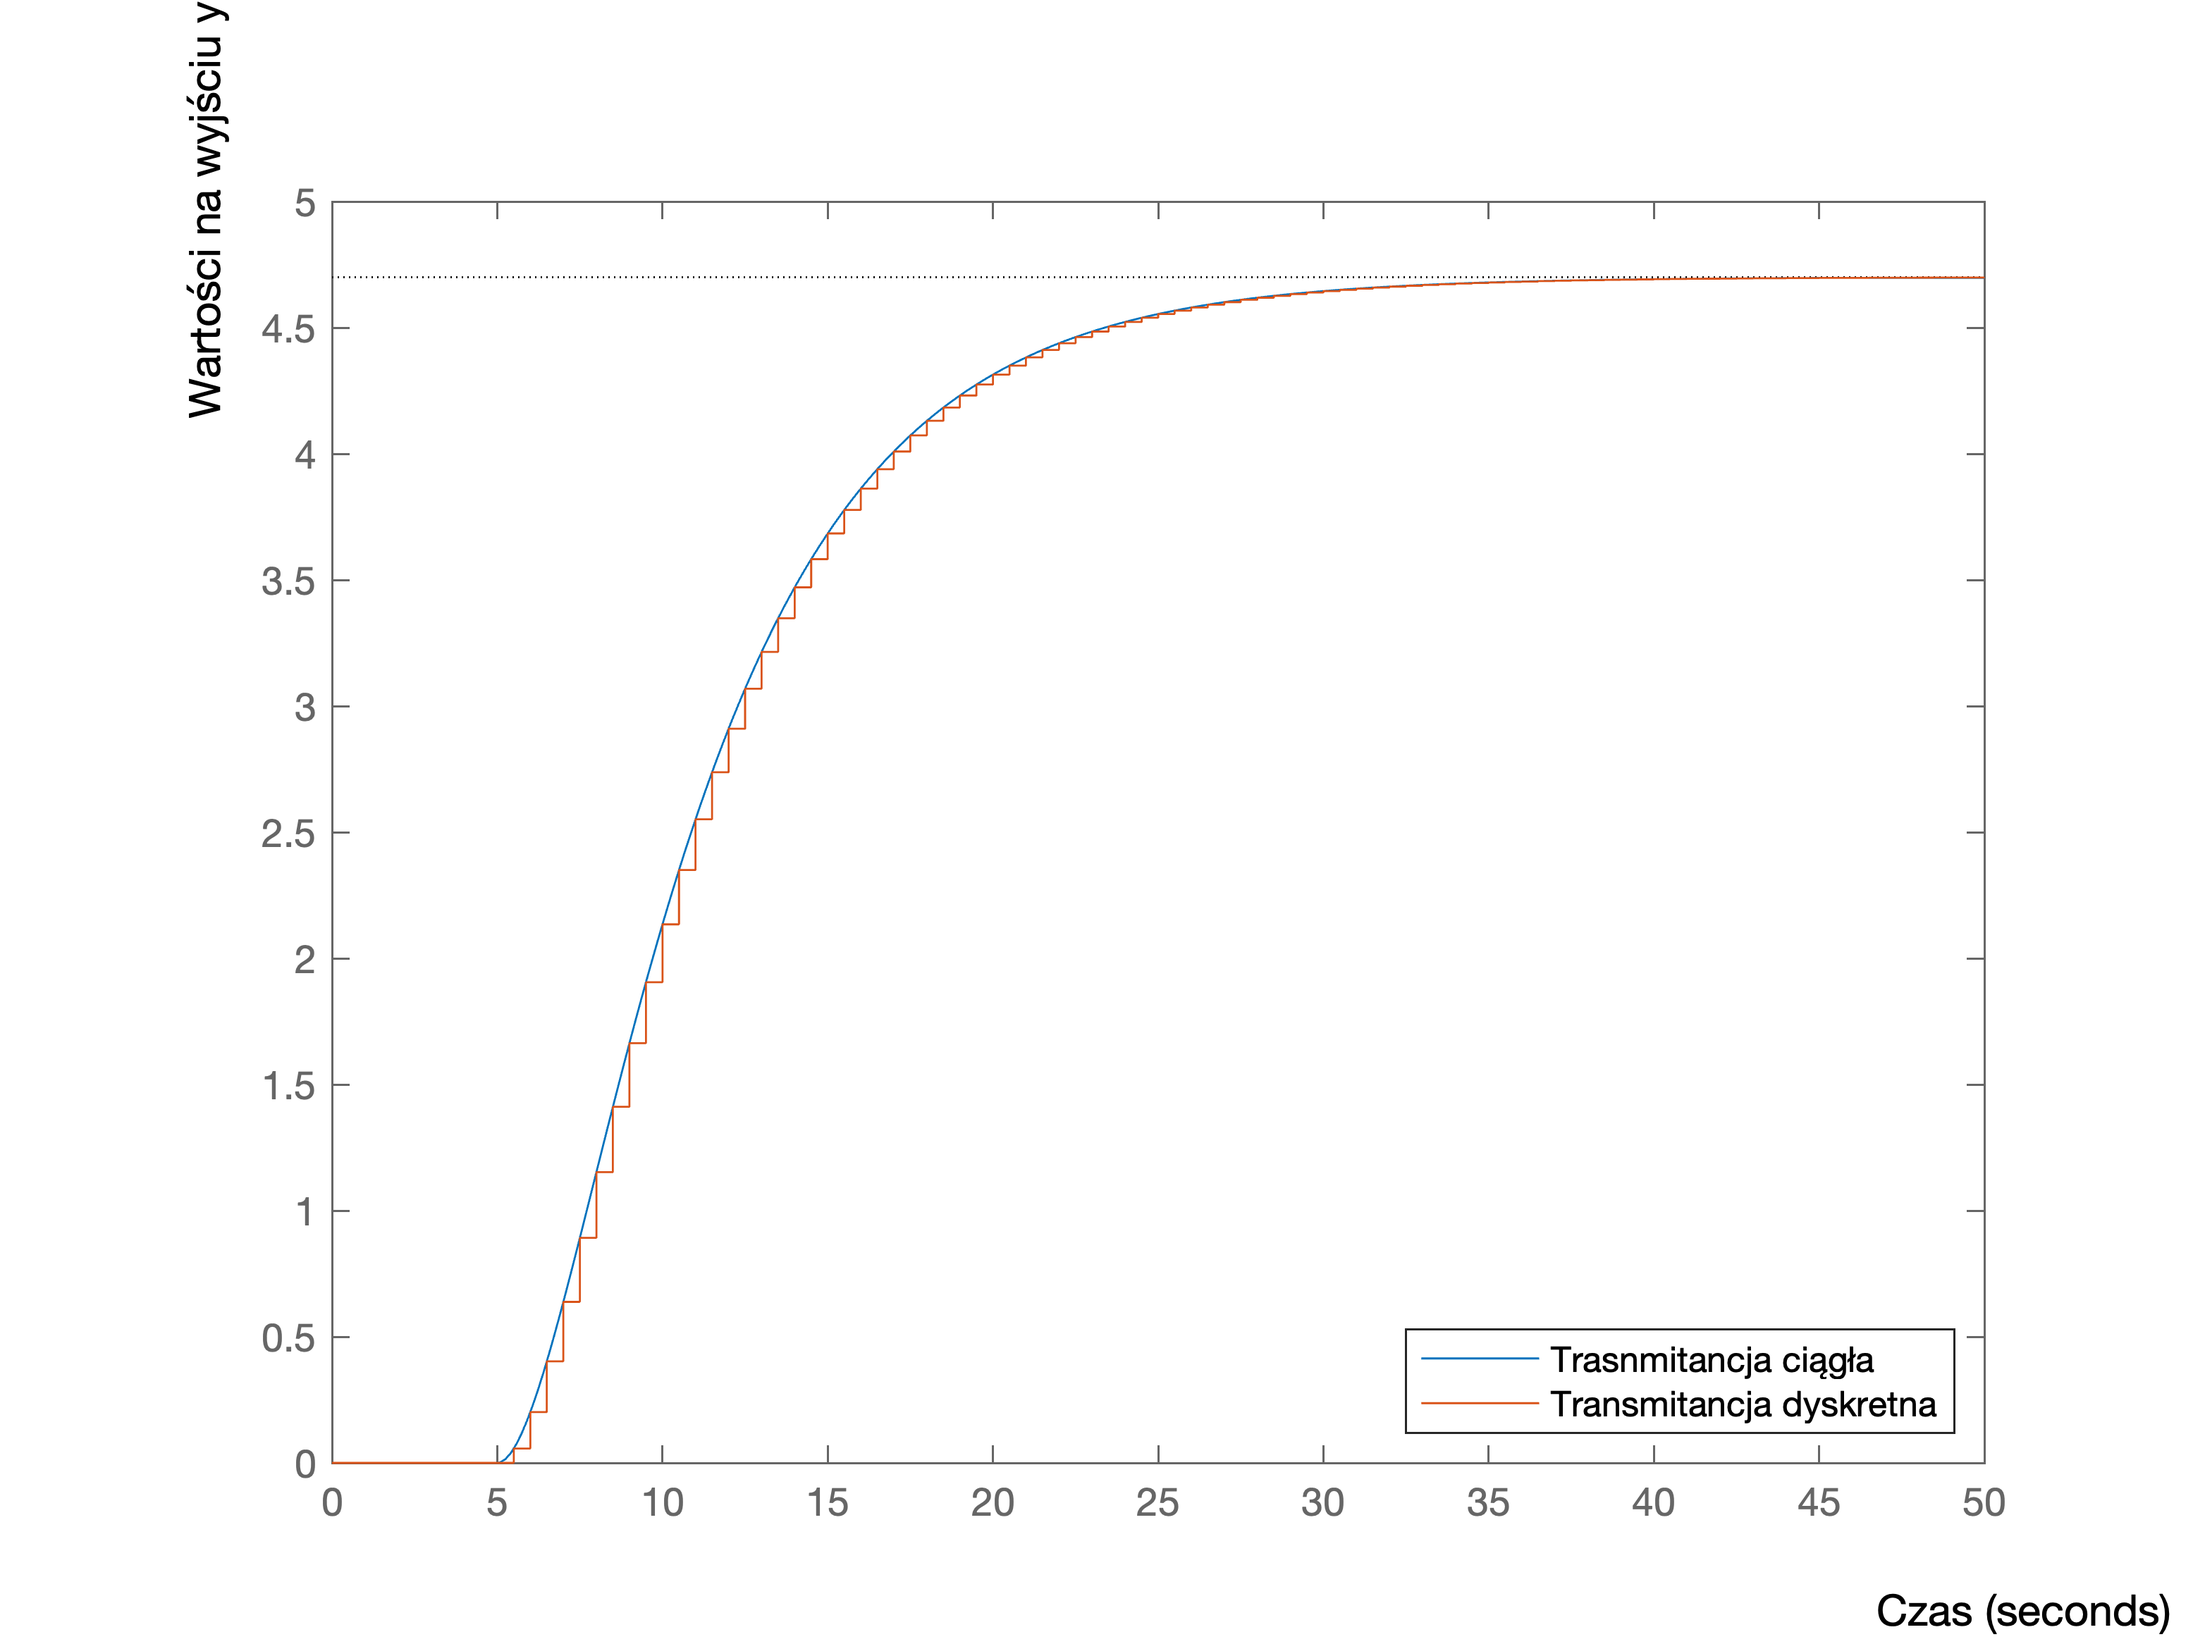
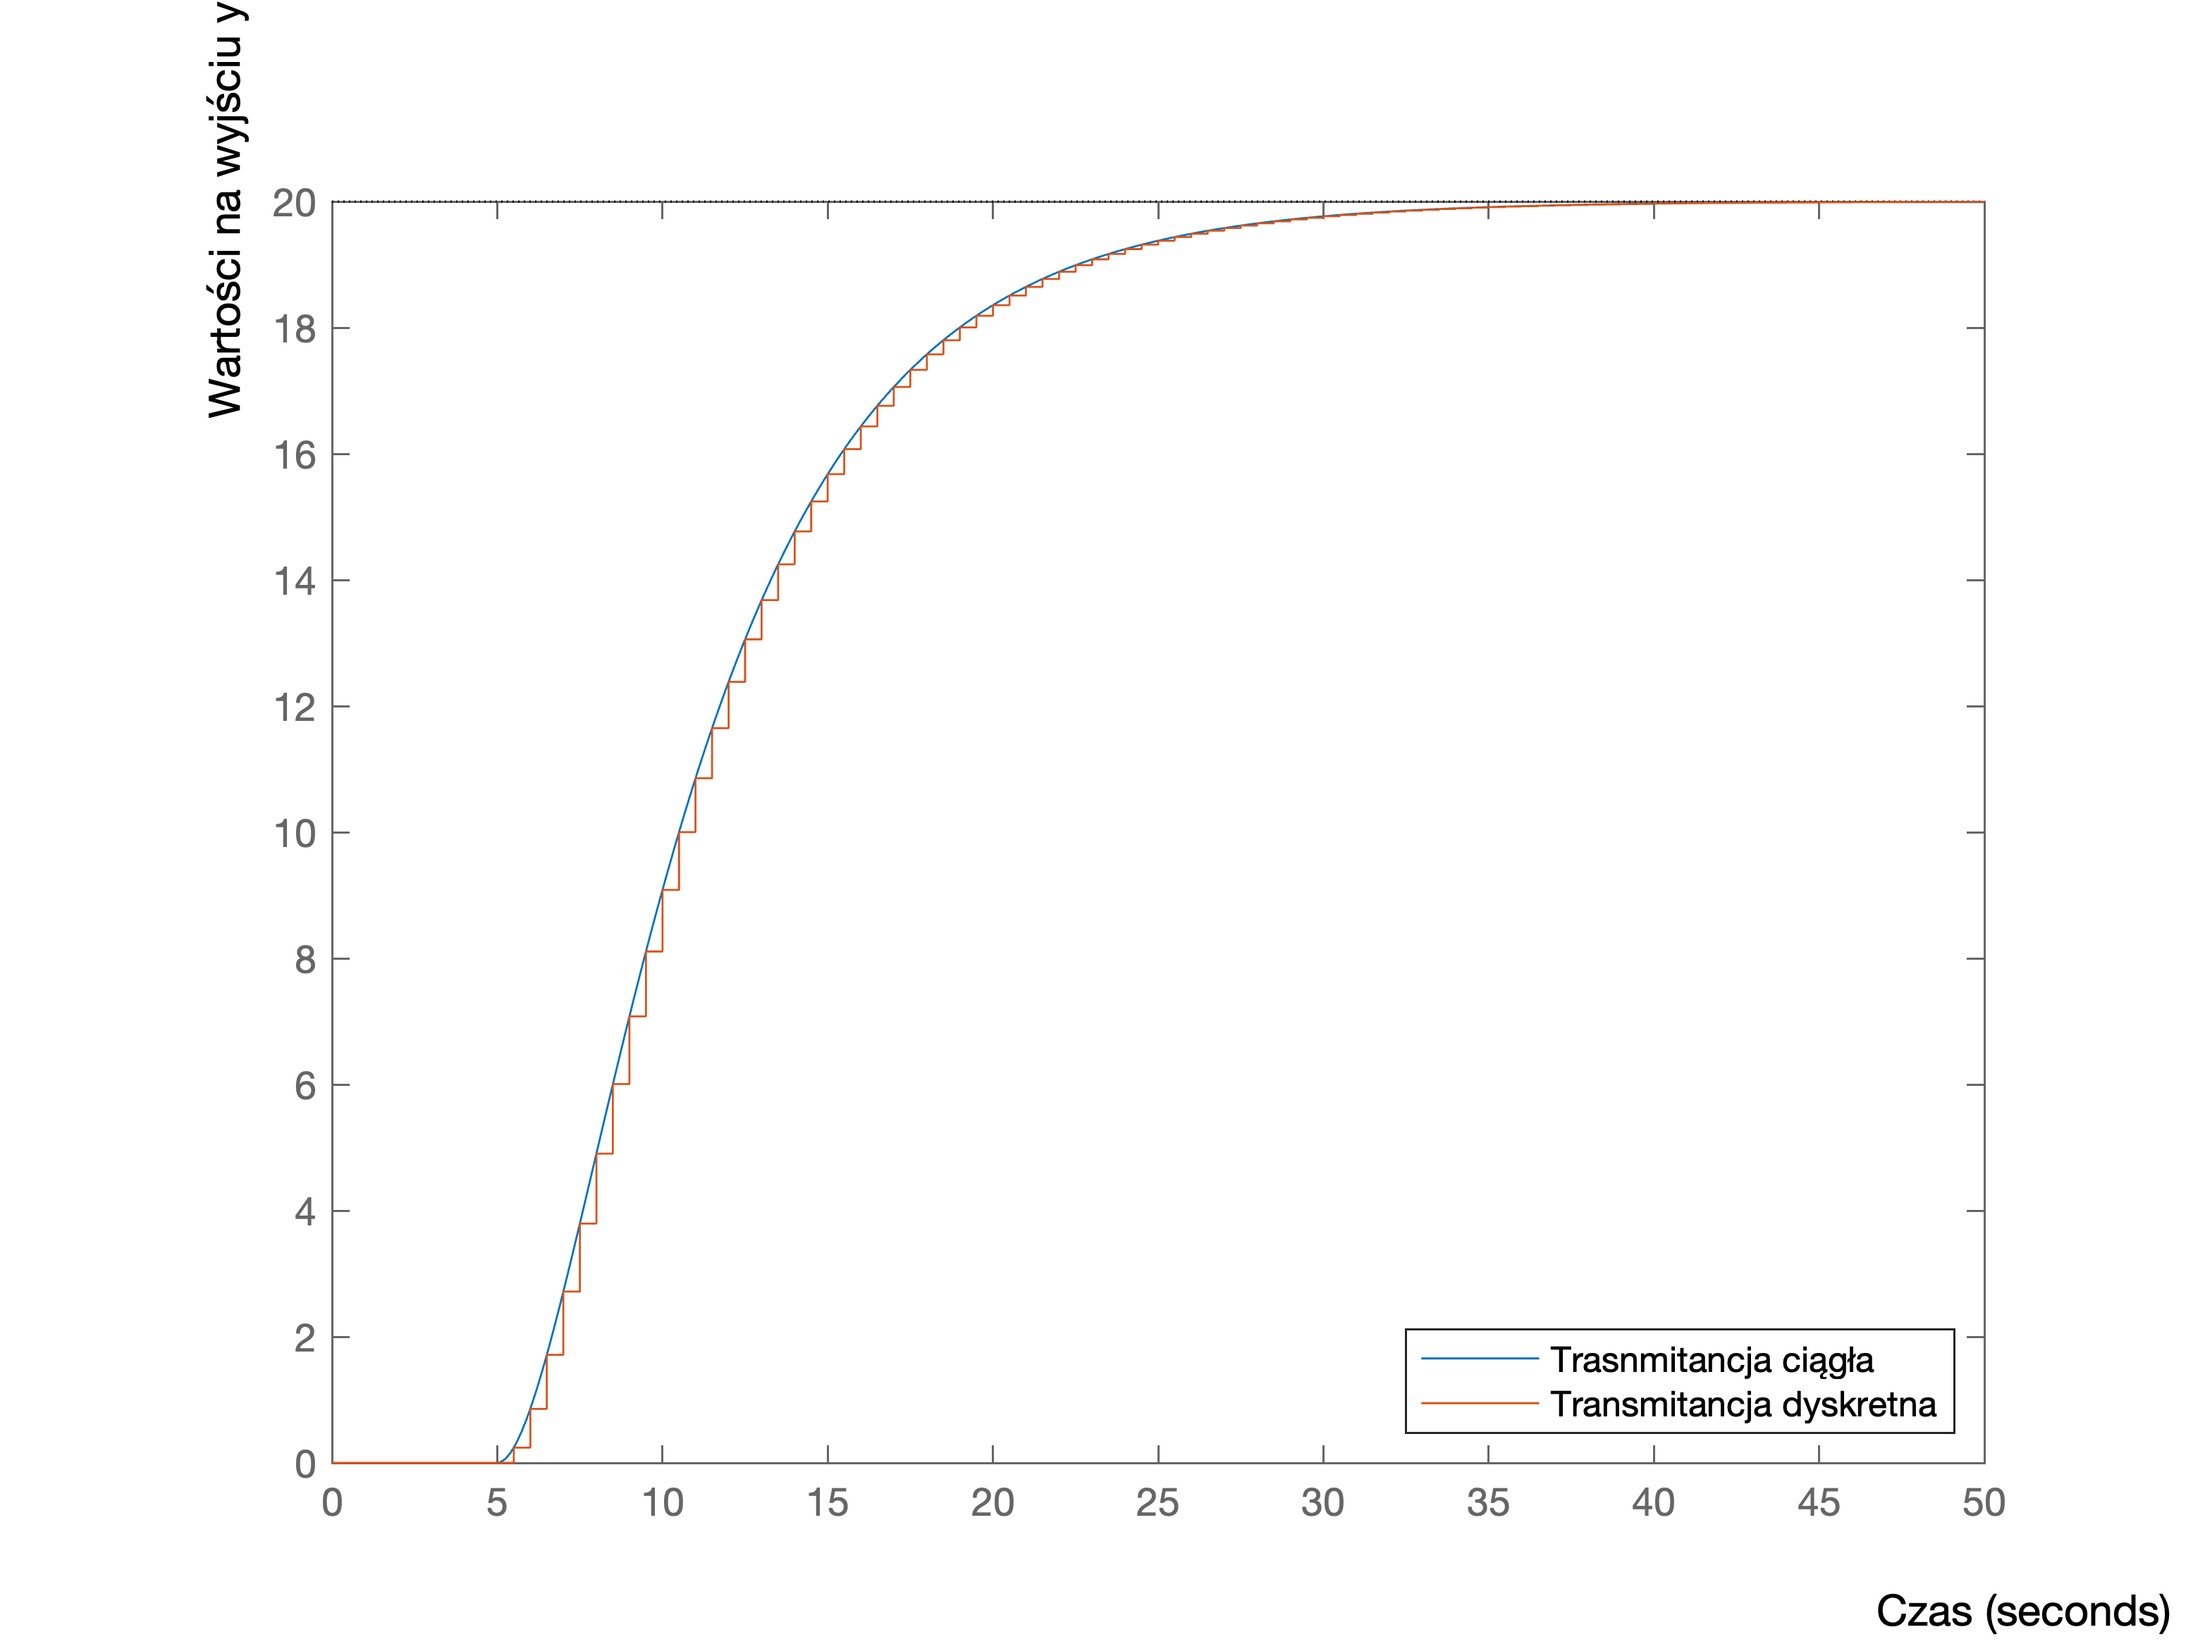
test

diff --git a/zad6dmc.m b/zad6dmc.m
@@ -1,6 +1,6 @@
-N = 22
-Nu = 2
-D = 90
+N = 22;
+Nu = 2;
+D = 90;
 coeff = 0;
 kk=1000; 
 T0 = 5;
@@ -9,7 +9,10 @@ T2 = 5.13;
 Tp = 0.5;
 T_0base = 5;
 K_base = 4.7
-kk=1000; 
+kk=1000;
+Gs = tf(K_base,[T1*T2, T1+T2, 1],'IODelay',T0);
+Gz = c2d(Gs,Tp,"zoh");
+s = step(Gz,0:Tp:100);
 u(1:kk)=0; y(1:kk)=0;
 yzad(1:kk)=0; yzad(abs(-2- T0 *(1/Tp))+1:kk)=1;
 e(1:kk)=0;
@@ -23,13 +26,9 @@ for x= 1 : size(T0_prop,2)
     z = 1;
     left_max = 0;
     right_max = 0;
+    coeff = -1;
     while left_max>= right_max
-        M = zeros(N,Nu);
-        Mp = zeros(N,D-1);
-        kk=1000; 
-        u(1:kk)=0; y(1:kk)=0;
-        yzad(1:kk)=0; yzad(abs(-2- T0 *(1/Tp))+1:kk)=1;
-        e(1:kk)=0;
+        k_start = 0;
         K_t = K_base*z;
         Gs = tf(K_t,[T1*T2, T1+T2, 1],'IODelay',T0);
         Gz = c2d(Gs,Tp,"zoh");
@@ -37,7 +36,12 @@ for x= 1 : size(T0_prop,2)
         a0 = Gz.Denominator{1}(3);
         b1 = Gz.Numerator{1}(2);
         b0 = Gz.Numerator{1}(3);
-        s = step(Gz,0:Tp:100);
+        M = zeros(N,Nu);
+        Mp = zeros(N,D-1);
+        kk=1000; 
+        u(1:kk)=0; y(1:kk)=0;
+        yzad(1:kk)=0; yzad(abs(-2- T0 *(1/Tp))+1:kk)=1;
+        e(1:kk)=0;
         for i= 1:N
             for j = 1:Nu
                 if (i-j+1)>0
@@ -56,6 +60,11 @@ for x= 1 : size(T0_prop,2)
      dUp = [];
      y(k)=b1*u(k-1- T0 *(1/Tp))+b0*u(k-2- T0 *(1/Tp))-a1*y(k-1)-a0*y(k-2);
      e(k)=yzad(k)-y(k);
+     if (y(k) >= yzad(k)) && k_start == 0
+        % disp(y(k))
+        % disp(yzad(k))
+        k_start = k;
+    end
      Yzadk = yzad(k) *ones(N,1);
      Yk = y(k) *ones(N,1);
      for i=1:D-1
@@ -68,11 +77,14 @@ for x= 1 : size(T0_prop,2)
     dU = K*(Yzadk - Yk - Mp * dUp);
     u(k)= dU(1) + u(k-1);
     end
-    z = z-0.001;
-    left_max = max(u(200:400));
+    if z==0
+        coeff = 1;
+    end
+    z = z+(0.01)*coeff;
+    left_max = max(u(k_start:k_start+100));
     right_max = max(u(800:1000));
     end
     K_prop = [K_prop, z];
 end
-t = linspace(1,kk,kk)
+t = linspace(1,kk,kk);
 stairs(t,u,'LineWidth',1.5, Color='r');

diff --git a/zad4.m b/zad4.m
@@ -11,6 +11,13 @@ D = 90
 M = zeros(N,Nu)
 Mp = zeros(N,D-1)
 s = step(Gz,0:Tp:100)
+K =2.538000000000000;
+T0 = 5
+T1= 1.78
+T2 = 5.13
+Tp = 0.5
+Gs = tf(K,[T1*T2, T1+T2, 1],'IODelay',T0)
+Gz = c2d(Gs,Tp,"zoh")
 kk=1000
 u(1:D-1)=0; y(1:D-1)=0;
 yzad(1:D-1)=0; yzad(D:kk)=1;
@@ -28,7 +35,7 @@ for i = 1:N
         Mp(i,j) = s(i+j) - s(j);
     end
 end
-lambda = 969;
+lambda = 1;
 Gamma = eye(N,N)
 Alpha = eye(Nu,Nu) * lambda;
 

diff --git a/zad1.m b/zad1.m
@@ -1,4 +1,4 @@
-K =4.7
+K =20
 T0 = 5
 T1= 1.78
 T2 = 5.13
